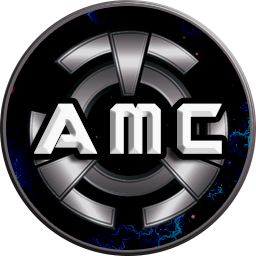
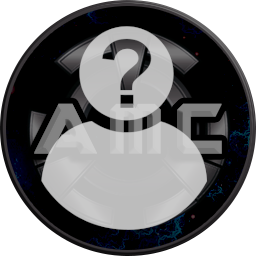
Add default credit portrait

diff --git a/_includes/credit.html b/_includes/credit.html
@@ -1,25 +1,33 @@
-<div class="column is-one-half-desktop is-one-half-tablet is-one-half-fullhd">
-    <div>
-        <div class="column is-one-fifth-desktop column is-one-fifth-tablet column is-one-fifth-fullhd">
-        <figure class="image">
-            <img class="is-rounded" src="{% if credit.image %}{{credit.image}}{% else %}/assets/images/portraits/default.png{% endif %}" alt="{{name}}" />
-        </figure>
-        </div>
-        <div class="column title"><h2>{{credit.name}}</h2></div>
+<!-- Use default portrait if a specific one doesn't exist -->
+{% capture credit_portrait %}{% file_exists /assets/images/portraits/{{ credit.id }}.png %}{% endcapture %}
+{% if credit_portrait == "true" %}
+  {% assign credit_portrait = credit.id %}
+{% else %}
+  <script>console.error('Missing credit portrait /assets/images/portraits/{{credit.id}}.png');</script>
+  {% assign credit_portrait = "default" %}
+{% endif %}
+
+<div class="column is-one-third">
+  <div class="columns">
+    <div class="column is-one-quarter">
+      <figure class="image">
+        <img class="is-rounded" src="/assets/images/portraits/{{credit_portrait}}.png" alt="{{credit.name}}" />
+      </figure>
     </div>
-        <div class="column has-text-left-desktop has-text-left-tablet has-text-left-fullhd has-text-left-widescreen">
-        {% if credit.joined %}<p>joined {{credit.joined}}</p>{% endif %}
-        <p>{{credit.role}}</p>
-        <p>{{credit.about}}</p>
-        <br>
+    <div class="column title"><h2>{{credit.name}}</h2></div>
+  </div>
+  <div class="column has-text-left-desktop has-text-left-tablet has-text-left-fullhd has-text-left-widescreen" id="{{credit.id}}">
+    <p class="credit-role">{{credit.role}}{% if credit.joined %} (joined {{credit.joined}}){% endif %}</p>
+    <p class="credit-about">{{credit.about}}</p>
+    <hr />
+    <div class="container columns is-centered">
+    {% if credit.urls && credit.urls !empty %}
         {% for url in credit.urls %}
-        <div class="container columns is-centered">
-            <div>
-                <a href="{{url.url}}"
-                    class="button is-rounded is-uppercase has-text-weight-normal is-white is-outlined">{{url.caption}}</a>
-                </a>
-            </div>
+        <div class="column is-one-fifth">
+          <a href="{{url.url}}" class="button is-rounded is-uppercase has-text-weight-normal is-white is-outlined">{{url.caption}}</a>
         </div>
         {% endfor %}
+    {% endif %}
     </div>
+  </div>
 </div>
